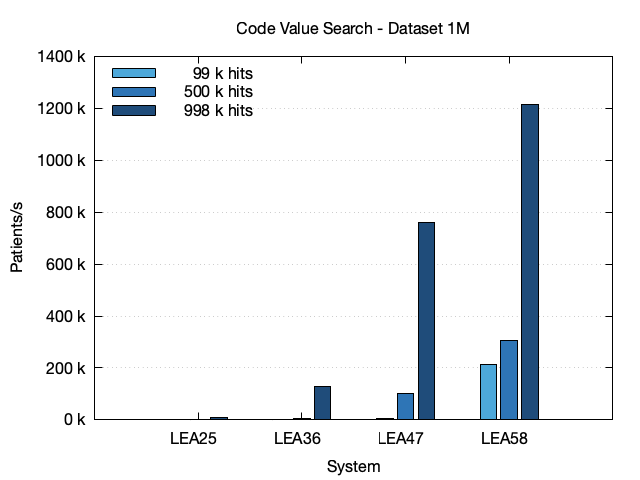
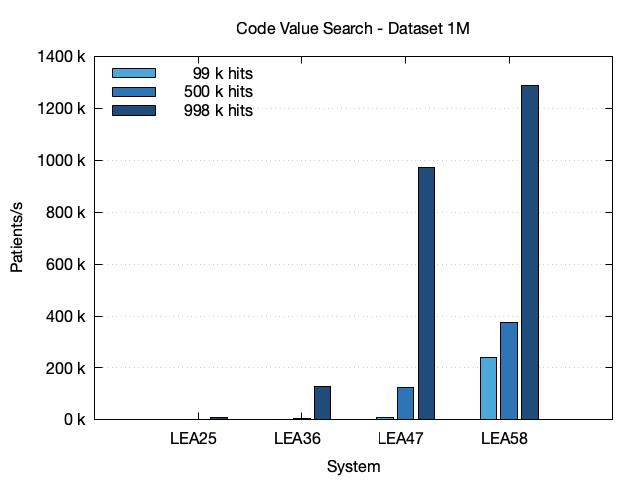
Update CQL Performance Data

diff --git a/docs/performance/cql.md b/docs/performance/cql.md
@@ -87,18 +87,18 @@ The same can be said for the LEA58 system.
 
 | Dataset | System | Code    | # Hits | Time (s) | StdDev |  Pat./s |
 |---------|--------|---------|-------:|---------:|-------:|--------:|
-| 100k    | LEA25  | 17861-6 |    2 k |     0.20 |  0.007 | 501.6 k | 
-| 100k    | LEA25  | 8310-5  |   60 k |     0.30 |  0.009 | 335.1 k | 
-| 100k    | LEA25  | 72514-3 |  100 k |     0.37 |  0.007 | 273.7 k |
-| 100k    | LEA36  | 17861-6 |    2 k |     0.12 |  0.006 | 858.5 k | 
-| 100k    | LEA36  | 8310-5  |   60 k |     0.16 |  0.008 | 613.2 k | 
-| 100k    | LEA36  | 72514-3 |  100 k |     0.21 |  0.008 | 483.7 k |
-| 100k    | LEA47  | 17861-6 |    2 k |     0.07 |  0.003 | 1.421 M | 
-| 100k    | LEA47  | 8310-5  |   60 k |     0.10 |  0.005 | 1.014 M | 
-| 100k    | LEA47  | 72514-3 |  100 k |     0.11 |  0.002 | 882.7 k |
-| 100k    | LEA58  | 17861-6 |    2 k |     0.06 |  0.002 | 1.689 M | 
-| 100k    | LEA58  | 8310-5  |   60 k |     0.07 |  0.003 | 1.516 M | 
-| 100k    | LEA58  | 72514-3 |  100 k |     0.08 |  0.004 | 1.259 M |
+| 100k    | LEA25  | 17861-6 |    2 k |     0.16 |  0.011 | 630.6 k | 
+| 100k    | LEA25  | 8310-5  |   60 k |     0.25 |  0.017 | 393.1 k | 
+| 100k    | LEA25  | 72514-3 |  100 k |     0.29 |  0.009 | 341.5 k |
+| 100k    | LEA36  | 17861-6 |    2 k |     0.09 |  0.006 | 1.086 M | 
+| 100k    | LEA36  | 8310-5  |   60 k |     0.12 |  0.003 | 807.1 k | 
+| 100k    | LEA36  | 72514-3 |  100 k |     0.17 |  0.006 | 604.8 k |
+| 100k    | LEA47  | 17861-6 |    2 k |     0.06 |  0.002 | 1.629 M | 
+| 100k    | LEA47  | 8310-5  |   60 k |     0.08 |  0.004 | 1.307 M | 
+| 100k    | LEA47  | 72514-3 |  100 k |     0.09 |  0.003 | 1.068 M |
+| 100k    | LEA58  | 17861-6 |    2 k |     0.07 |  0.002 | 1.504 M | 
+| 100k    | LEA58  | 8310-5  |   60 k |     0.08 |  0.001 | 1.298 M | 
+| 100k    | LEA58  | 72514-3 |  100 k |     0.08 |  0.002 | 1.207 M |
 | 100k-fh | LEA25  | 788-0   |    2 k |     0.21 |  0.009 | 475.3 k |
 | 100k-fh | LEA25  | 44261-6 |   57 k |     0.30 |  0.012 | 331.4 k |
 | 100k-fh | LEA25  | 72514-3 |  100 k |     0.38 |  0.021 | 265.8 k |
@@ -111,18 +111,18 @@ The same can be said for the LEA58 system.
 | 100k-fh | LEA58  | 788-0   |    2 k |     0.06 |  0.003 | 1.659 M |
 | 100k-fh | LEA58  | 44261-6 |   57 k |     0.07 |  0.002 | 1.521 M |
 | 100k-fh | LEA58  | 72514-3 |  100 k |     0.08 |  0.001 | 1.232 M |
-| 1M      | LEA25  | 17861-6 |   25 k |     8.84 |  0.056 | 113.2 k | 
-| 1M      | LEA25  | 8310-5  |  603 k |    12.41 |  0.022 |  80.6 k | 
-| 1M      | LEA25  | 72514-3 |  998 k |    14.35 |  0.100 |  69.7 k |
-| 1M      | LEA36  | 17861-6 |   25 k |     4.38 |  0.026 | 228.3 k | 
-| 1M      | LEA36  | 8310-5  |  603 k |     6.30 |  0.038 | 158.8 k | 
-| 1M      | LEA36  | 72514-3 |  998 k |     7.30 |  0.025 | 137.1 k |
-| 1M      | LEA47  | 17861-6 |   25 k |     0.59 |  0.006 | 1.692 M | 
-| 1M      | LEA47  | 8310-5  |  603 k |     0.69 |  0.011 | 1.452 M | 
-| 1M      | LEA47  | 72514-3 |  998 k |     0.85 |  0.006 | 1.173 M |
-| 1M      | LEA58  | 17861-6 |   25 k |     0.49 |  0.004 | 2.026 M |
-| 1M      | LEA58  | 8310-5  |  603 k |     0.54 |  0.009 | 1.842 M | 
-| 1M      | LEA58  | 72514-3 |  998 k |     0.63 |  0.007 | 1.579 M |
+| 1M      | LEA25  | 17861-6 |   25 k |     8.04 |  0.059 | 124.3 k | 
+| 1M      | LEA25  | 8310-5  |  603 k |    11.40 |  0.043 |  87.7 k | 
+| 1M      | LEA25  | 72514-3 |  998 k |    13.16 |  0.049 |  76.0 k |
+| 1M      | LEA36  | 17861-6 |   25 k |     3.90 |  0.009 | 256.1 k | 
+| 1M      | LEA36  | 8310-5  |  603 k |     5.74 |  0.023 | 174.2 k | 
+| 1M      | LEA36  | 72514-3 |  998 k |     6.68 |  0.036 | 149.6 k |
+| 1M      | LEA47  | 17861-6 |   25 k |     0.59 |  0.003 | 1.705 M | 
+| 1M      | LEA47  | 8310-5  |  603 k |     0.64 |  0.003 | 1.557 M | 
+| 1M      | LEA47  | 72514-3 |  998 k |     0.76 |  0.006 | 1.324 M |
+| 1M      | LEA58  | 17861-6 |   25 k |     0.61 |  0.005 | 1.633 M |
+| 1M      | LEA58  | 8310-5  |  603 k |     0.67 |  0.005 | 1.495 M | 
+| 1M      | LEA58  | 72514-3 |  998 k |     0.75 |  0.003 | 1.336 M |
 
 ### Example CQL Query
 
@@ -195,18 +195,18 @@ For the LEA58 system, the relative performance is the same for all datasets.
 
 | Dataset | System | Code    |   Value | # Hits | Time (s) | StdDev |  Pat./s |
 |---------|--------|---------|--------:|-------:|---------:|-------:|--------:|
-| 100k    | LEA25  | 29463-7 | 13.6 kg |   10 k |     2.62 |  0.023 |  38.2 k | 
-| 100k    | LEA25  | 29463-7 | 75.3 kg |   50 k |     1.68 |  0.025 |  59.6 k | 
-| 100k    | LEA25  | 29463-7 |  185 kg |  100 k |     0.42 |  0.010 | 238.4 k |
-| 100k    | LEA36  | 29463-7 | 13.6 kg |   10 k |     1.28 |  0.006 |  78.4 k | 
-| 100k    | LEA36  | 29463-7 | 75.3 kg |   50 k |     0.84 |  0.005 | 119.7 k | 
-| 100k    | LEA36  | 29463-7 |  185 kg |  100 k |     0.25 |  0.008 | 395.9 k |
-| 100k    | LEA47  | 29463-7 | 13.6 kg |   10 k |     0.76 |  0.006 | 131.9 k | 
-| 100k    | LEA47  | 29463-7 | 75.3 kg |   50 k |     0.50 |  0.006 | 200.2 k | 
-| 100k    | LEA47  | 29463-7 |  185 kg |  100 k |     0.14 |  0.002 | 702.5 k |
-| 100k    | LEA58  | 29463-7 | 13.6 kg |   10 k |     0.50 |  0.006 | 199.1 k |  
-| 100k    | LEA58  | 29463-7 | 75.3 kg |   50 k |     0.33 |  0.004 | 299.0 k | 
-| 100k    | LEA58  | 29463-7 |  185 kg |  100 k |     0.09 |  0.003 | 1.069 M |
+| 100k    | LEA25  | 29463-7 | 13.6 kg |   10 k |     2.64 |  0.033 |  37.9 k | 
+| 100k    | LEA25  | 29463-7 | 75.3 kg |   50 k |     1.41 |  0.007 |  70.7 k | 
+| 100k    | LEA25  | 29463-7 |  185 kg |  100 k |     0.35 |  0.018 | 285.1 k |
+| 100k    | LEA36  | 29463-7 | 13.6 kg |   10 k |     1.04 |  0.012 |  95.9 k | 
+| 100k    | LEA36  | 29463-7 | 75.3 kg |   50 k |     0.71 |  0.006 | 141.3 k | 
+| 100k    | LEA36  | 29463-7 |  185 kg |  100 k |     0.20 |  0.009 | 511.1 k |
+| 100k    | LEA47  | 29463-7 | 13.6 kg |   10 k |     0.68 |  0.004 | 147.2 k | 
+| 100k    | LEA47  | 29463-7 | 75.3 kg |   50 k |     0.47 |  0.010 | 214.1 k | 
+| 100k    | LEA47  | 29463-7 |  185 kg |  100 k |     0.12 |  0.004 | 855.7 k |
+| 100k    | LEA58  | 29463-7 | 13.6 kg |   10 k |     0.47 |  0.004 | 210.7 k |  
+| 100k    | LEA58  | 29463-7 | 75.3 kg |   50 k |     0.31 |  0.002 | 320.2 k | 
+| 100k    | LEA58  | 29463-7 |  185 kg |  100 k |     0.09 |  0.001 | 1.057 M |
 | 100k-fh | LEA25  | 29463-7 | 13.6 kg |  100 k |     1.40 |  0.046 |  71.3 k |  
 | 100k-fh | LEA25  | 29463-7 | 75.3 kg |  100 k |     0.86 |  0.007 | 116.4 k | 
 | 100k-fh | LEA25  | 29463-7 |  185 kg |  100 k |     0.44 |  0.018 | 228.2 k |
@@ -225,12 +225,12 @@ For the LEA58 system, the relative performance is the same for all datasets.
 | 1M      | LEA36  | 29463-7 | 13.6 kg |   99 k |   432.80 |  1.586 |   2.3 k | 
 | 1M      | LEA36  | 29463-7 | 75.3 kg |  500 k |   265.29 |  1.618 |   3.8 k | 
 | 1M      | LEA36  | 29463-7 |  185 kg |  998 k |     7.72 |  0.045 | 129.5 k |
-| 1M      | LEA47  | 29463-7 | 13.6 kg |   99 k |   137.35 |  1.065 |   7.3 k | 
-| 1M      | LEA47  | 29463-7 | 75.3 kg |  500 k |     9.34 |  0.024 | 107.1 k | 
-| 1M      | LEA47  | 29463-7 |  185 kg |  998 k |     1.19 |  0.003 | 842.6 k |
-| 1M      | LEA58  | 29463-7 | 13.6 kg |   99 k |     4.68 |  0.013 | 213.7 k |  
-| 1M      | LEA58  | 29463-7 | 75.3 kg |  500 k |     3.28 |  0.014 | 305.1 k | 
-| 1M      | LEA58  | 29463-7 |  185 kg |  998 k |     0.82 |  0.006 | 1.214 M |
+| 1M      | LEA47  | 29463-7 | 13.6 kg |   99 k |   138.82 |  1.378 |   7.2 k | 
+| 1M      | LEA47  | 29463-7 | 75.3 kg |  500 k |     8.09 |  0.015 | 123.6 k | 
+| 1M      | LEA47  | 29463-7 |  185 kg |  998 k |     1.03 |  0.004 | 973.7 k |
+| 1M      | LEA58  | 29463-7 | 13.6 kg |   99 k |     4.18 |  0.004 | 239.3 k |  
+| 1M      | LEA58  | 29463-7 | 75.3 kg |  500 k |     2.67 |  0.008 | 374.2 k | 
+| 1M      | LEA58  | 29463-7 |  185 kg |  998 k |     0.78 |  0.003 | 1.288 M |
 
 ### CQL Query
 
@@ -302,14 +302,14 @@ The same can be said for the LEA58 system.
 
 | Dataset | System | # Hits | Time (s) | StdDev |  Pat./s |
 |---------|--------|-------:|---------:|-------:|--------:|
-| 100k    | LEA25  |    395 |     1.31 |  0.013 |  76.3 k |
-| 100k    | LEA25  |   95 k |     0.69 |  0.016 | 144.9 k |
-| 100k    | LEA36  |    395 |     0.78 |  0.010 | 128.5 k |
-| 100k    | LEA36  |   95 k |     0.38 |  0.003 | 264.1 k |
-| 100k    | LEA47  |    395 |     0.46 |  0.002 | 217.0 k |
-| 100k    | LEA47  |   95 k |     0.22 |  0.004 | 459.6 k |
-| 100k    | LEA58  |    395 |     0.32 |  0.002 | 313.8 k |
-| 100k    | LEA58  |   95 k |     0.14 |  0.002 | 690.3 k |
+| 100k    | LEA25  |    395 |     0.70 |  0.011 | 142.0 k |
+| 100k    | LEA25  |   95 k |     0.44 |  0.022 | 227.6 k |
+| 100k    | LEA36  |    395 |     0.40 |  0.010 | 249.3 k |
+| 100k    | LEA36  |   95 k |     0.22 |  0.009 | 448.5 k |
+| 100k    | LEA47  |    395 |     0.23 |  0.001 | 437.5 k |
+| 100k    | LEA47  |   95 k |     0.14 |  0.002 | 731.9 k |
+| 100k    | LEA58  |    395 |     0.16 |  0.001 | 607.1 k |
+| 100k    | LEA58  |   95 k |     0.11 |  0.002 | 941.9 k |
 | 100k-fh | LEA25  |    2 k |     1.30 |  0.008 |  76.7 k |
 | 100k-fh | LEA25  |   98 k |     0.47 |  0.006 | 214.4 k |
 | 100k-fh | LEA36  |    2 k |     0.75 |  0.008 | 133.1 k |
@@ -318,14 +318,14 @@ The same can be said for the LEA58 system.
 | 100k-fh | LEA47  |   98 k |     0.16 |  0.003 | 628.0 k |
 | 100k-fh | LEA58  |    2 k |     0.31 |  0.003 | 322.3 k |
 | 100k-fh | LEA58  |   98 k |     0.10 |  0.002 |   1.0 M |
-| 1M      | LEA25  |    4 k |    20.74 |  0.134 |  48.2 k |
-| 1M      | LEA25  |  954 k |    15.15 |  0.039 |  66.0 k |
-| 1M      | LEA36  |    4 k |    11.18 |  0.033 |  89.5 k |
-| 1M      | LEA36  |  954 k |     7.60 |  0.025 | 131.6 k |
-| 1M      | LEA47  |    4 k |     2.13 |  0.006 | 470.4 k |
-| 1M      | LEA47  |  954 k |     1.26 |  0.004 | 791.0 k |
-| 1M      | LEA58  |    4 k |     2.71 |  0.009 | 368.4 k |
-| 1M      | LEA58  |  954 k |     1.25 |  0.003 | 798.9 k |
+| 1M      | LEA25  |    4 k |    13.60 |  0.073 |  73.5 k |
+| 1M      | LEA25  |  954 k |    11.87 |  0.027 |  84.2 k |
+| 1M      | LEA36  |    4 k |     7.24 |  0.009 | 138.1 k |
+| 1M      | LEA36  |  954 k |     6.09 |  0.035 | 164.3 k |
+| 1M      | LEA47  |    4 k |     2.11 |  0.005 | 473.3 k |
+| 1M      | LEA47  |  954 k |     1.18 |  0.003 | 846.4 k |
+| 1M      | LEA58  |    4 k |     1.39 |  0.003 | 719.2 k |
+| 1M      | LEA58  |  954 k |     0.95 |  0.004 | 1.053 M |
 
 ### CQL Query Frequent
 

diff --git a/docs/performance/cql/other.md b/docs/performance/cql/other.md
@@ -5,10 +5,11 @@
 | Dataset | System | # Hits | Time (s) | StdDev |  Pat./s |
 |---------|--------|-------:|---------:|-------:|--------:|
 | 100k    | LEA25  |   15 k |     5.64 |  0.030 |  17.7 k |
-| 100k    | LEA36  |   15 k |     3.31 |  0.050 |  30.2 k |
+| 100k    | LEA36  |   15 k |     1.56 |  0.004 |  64.0 k |
 | 100k    | LEA47  |   15 k |     2.03 |  0.023 |  49.2 k |
 | 100k    | LEA58  |   15 k |     1.37 |  0.013 |  72.8 k |
 | 100k-fh | LEA58  |   16 k |     6.84 |  0.018 |  14.6 k |
+| 1M      | LEA36  |  155 k |    19.03 |  0.039 |  52.5 k |
 | 1M      | LEA47  |  155 k |     8.56 |  0.014 | 116.8 k |
 | 1M      | LEA58  |  155 k |    13.01 |  0.053 |  76.8 k |
 
